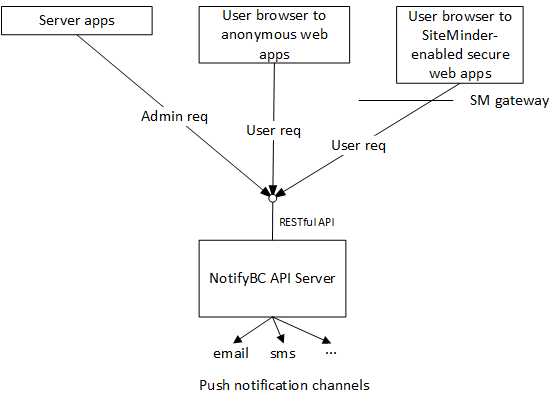
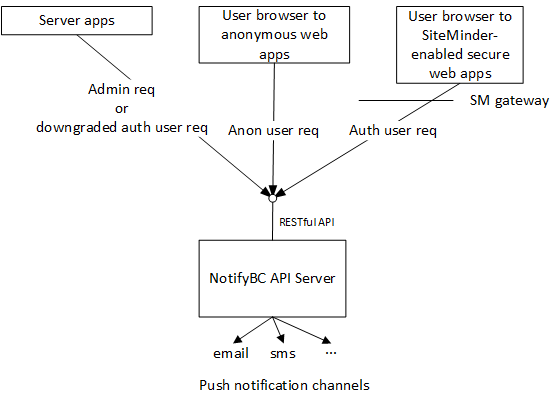
updated docs

Changed region(s): [[0.0609, 0.2382, 0.5789, 0.3573], [0.5789, 0.2978, 0.7921, 0.3871], [0.1523, 0.2084, 0.2742, 0.2382]]

diff --git a/docs/_docs/overview.md b/docs/_docs/overview.md
@@ -60,9 +60,15 @@ If a notification request contains field *data* of type *object*, *NotifyBC* als
 
 *NotifyBC*, designed to be a microservice, doesn't use full-blown ACL to secure API calls. Instead, it classifies incoming requests into admin and user types. Each type has two subtypes based on following criteria
 
-* super-admin, if the source ip of the request is in the admin ip list and the request doesn't contain SiteMinder headers
+* super-admin, if the source ip of the request is in the admin ip list and the request doesn't contain any of following case insensitive SiteMinder HTTP headers
+  * SM_UNIVERSALID
+  * SM_USER
+  * SMGOV_USERDISPLAYNAME
 * admin, if the request is not super-admin but has valid access token that maps to an admin user created and logged in using the *administrator* api, and the request doesn't contain SiteMinder headers
-* authenticated user, if the request is neither super-admin nor admin, but authenticated by SiteMinder, i.e. the request contains SiteMinder headers and is from trusted SiteMinder proxy
+* authenticated user, if the request 
+  * is neither super-admin nor admin, and
+  * contains SiteMinder headers, and
+  * comes from either trusted SiteMinder proxy or admin ip list
 * anonymous user, if the request doesn't meet any of the above criteria
 
 The only extra privileges that a super-admin has over admin are that super-admin can perform CRUD operations on *configuration* and *administrator* entities through REST API. In the remaining docs, when no further distinction is necessary, an admin request refers to both super-admin and admin request; a user request refers to both authenticated and anonymous request.
@@ -74,7 +80,7 @@ An admin request carries full authorization whereas user request has limited acc
 * retrieve push notifications
 * retrieve in-app notifications that is not targeted to the current user
 
-The result of an API call to the same end point may differ depending on if the request is made by admin or user. For example, the call *GET /notifications* without a filter will return all notifications to all users for an admin request, but only non-deleted, non-expired in-app notifications targeted to the current user when the request comes from user browser.
+The result of an API call to the same end point may differ depending on the request type. For example, the call *GET /notifications* without a filter will return all notifications to all users for an admin request, but only non-deleted, non-expired in-app notifications for authenticated user request, and forbidden for anonymous user request. Sometimes it is desirable for a request from admin ip list, which would normally be admin request, to be voluntarily downgraded to authenticated user request in order to take advantage of predefined filters such as the ones described above. This can be achieved by adding the SiteMinder headers to the request. This is also why admin request is not  determined by ip or access token alone.
 
 The way *NotifyBC* interacts with other components is diagrammed below.
 ![architecture diagram]({{site.baseurl}}/img/architecture.png)
